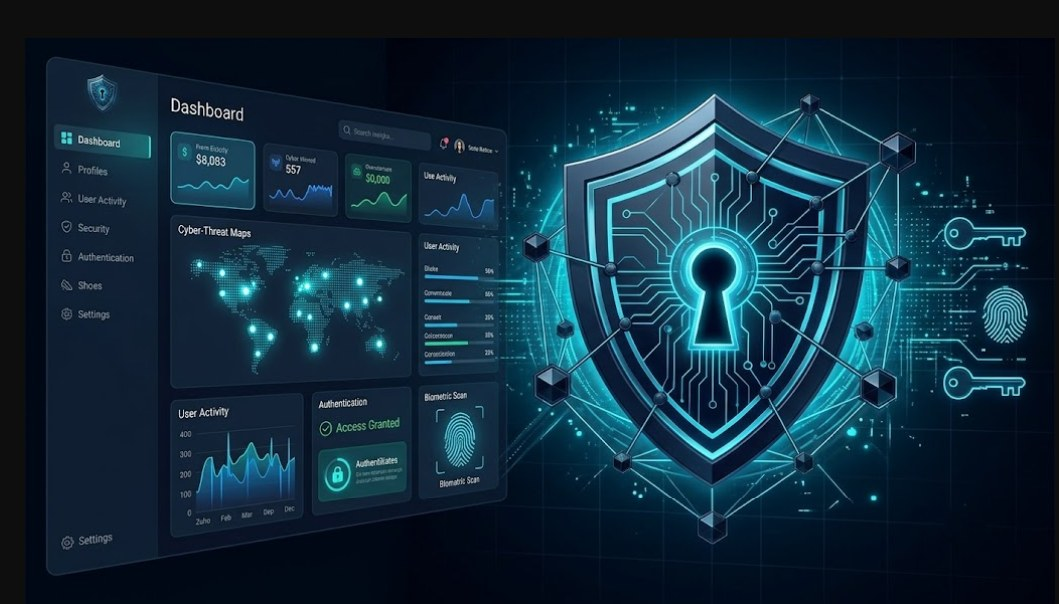
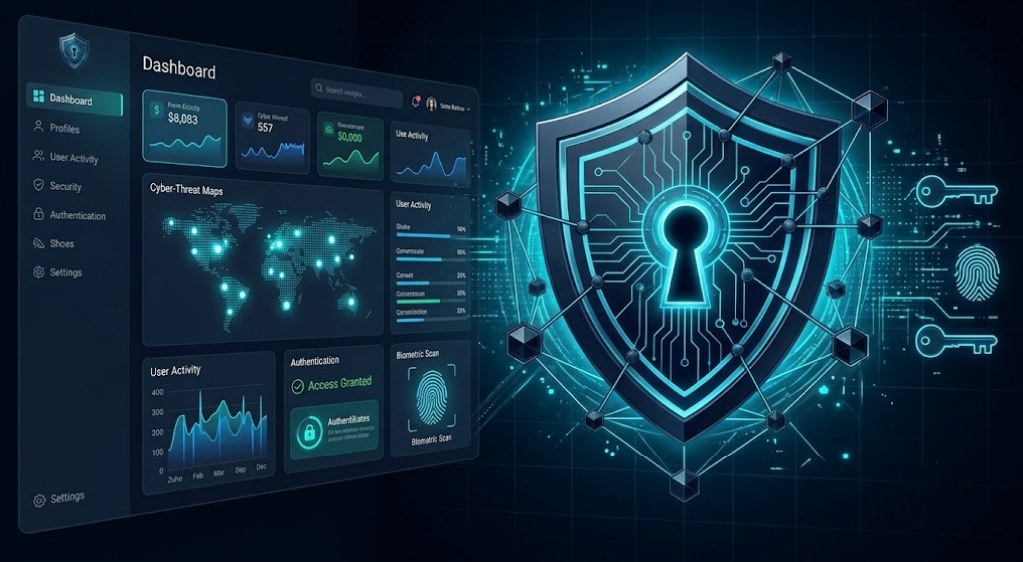
Refine admin sign-in: unified dark canvas, typed tagline
One continuous background across artwork and form (artwork fades into it,
no box), glass-style form card, trimmed artwork frame, and a two-line
tagline that types itself out (static with reduced motion).

diff --git a/services/iam-admin-console/src/polish.css b/services/iam-admin-console/src/polish.css
@@ -958,12 +958,29 @@ code {
   }
 }
 
-/* ---------- Split sign-in: artwork on the left, form on the right ---------- */
+/* ---------- Split sign-in: one continuous dark canvas, artwork fades into it ---------- */
 
 .login-split {
+  /* Always dark here: the artwork is dark, and a light form panel beside it
+     reads as two unrelated pages. The brand color still comes from the tenant. */
+  --iam-bg: #020a17;
+  --iam-surface: rgba(10, 20, 36, 0.62);
+  --iam-surface-alt: rgba(255, 255, 255, 0.05);
+  --iam-text: #e8eef6;
+  --iam-text-muted: #93a3b8;
+  --iam-border: rgba(140, 200, 230, 0.16);
+  --iam-primary-tint: rgba(99, 102, 241, 0.2);
+  --iam-error: #f87171;
+  --iam-error-bg: rgba(248, 113, 113, 0.12);
+
   display: grid;
-  grid-template-columns: minmax(0, 1.15fr) minmax(420px, 0.85fr);
+  grid-template-columns: minmax(0, 1.2fr) minmax(420px, 0.8fr);
   min-height: 100vh;
+  color: var(--iam-text);
+  background:
+    radial-gradient(ellipse 60% 60% at 30% 45%, rgba(20, 120, 150, 0.22) 0%, transparent 70%),
+    radial-gradient(ellipse 50% 50% at 88% 92%, rgba(60, 70, 200, 0.12) 0%, transparent 70%),
+    #020a17;
 }
 
 .login-split__art {
@@ -971,42 +988,97 @@ code {
   flex-direction: column;
   justify-content: center;
   align-items: center;
-  gap: 28px;
-  padding: 40px;
-  background: radial-gradient(circle at 70% 40%, #0b2a3a 0%, #070b14 60%, #04060b 100%);
+  padding: 32px 16px 32px 40px;
   overflow: hidden;
 }
 
+/* No box, border or shadow: the edges dissolve into the page background. */
 .login-split__art img {
   display: block;
   width: 100%;
-  max-width: 760px;
+  max-width: 820px;
   height: auto;
-  border-radius: 14px;
-  box-shadow: 0 20px 60px rgba(0, 200, 255, 0.12);
+  -webkit-mask-image: radial-gradient(ellipse 72% 72% at 50% 50%, #000 58%, transparent 100%);
+  mask-image: radial-gradient(ellipse 72% 72% at 50% 50%, #000 58%, transparent 100%);
+  animation: iam-fade-in 0.9s ease both;
 }
 
 .login-split__caption {
   width: 100%;
-  max-width: 760px;
-  color: #e6f7ff;
+  max-width: 820px;
+  padding-left: 28px;
+  margin-top: -6px;
 }
 
-.login-split__caption h2 {
-  margin: 0 0 8px;
-  font-size: 1.6rem;
-  letter-spacing: -0.01em;
+/* Typewriter: the invisible ghost holds the final size so nothing shifts while typing. */
+.tw {
+  display: block;
+  position: relative;
 }
 
-.login-split__caption p {
-  margin: 0;
-  color: #9fb7c4;
-  font-size: 0.98rem;
+.tw__ghost {
+  display: block;
+  visibility: hidden;
+}
+
+.tw__live {
+  position: absolute;
+  top: 0;
+  left: 0;
+  right: 0;
+}
+
+.tw--0 {
+  font-size: 2.1rem;
+  font-weight: 700;
+  letter-spacing: -0.02em;
+  line-height: 1.2;
+  color: #f2f8ff;
+}
+
+.tw--1 {
+  margin-top: 10px;
+  font-size: 1.05rem;
   line-height: 1.5;
+  color: var(--iam-text-muted);
+}
+
+.tw__caret {
+  display: inline-block;
+  width: 2px;
+  height: 1em;
+  margin-left: 3px;
+  vertical-align: -0.12em;
+  background: #5eead4;
+  animation: iam-blink 1s steps(1) infinite;
+}
+
+@keyframes iam-blink {
+  50% {
+    opacity: 0;
+  }
 }
 
 .login-split__panel {
   min-height: 100vh;
+}
+
+.login-split .login-form {
+  background: var(--iam-surface);
+  -webkit-backdrop-filter: blur(14px);
+  backdrop-filter: blur(14px);
+  box-shadow: 0 10px 40px rgba(0, 0, 0, 0.35);
+}
+
+.login-split .login-form__field input {
+  background: rgba(255, 255, 255, 0.05);
+}
+
+@media (prefers-reduced-motion: reduce) {
+  .tw__caret,
+  .login-split__art img {
+    animation: none;
+  }
 }
 
 @media (max-width: 960px) {

diff --git a/services/iam-admin-console/src/components/Typewriter.tsx b/services/iam-admin-console/src/components/Typewriter.tsx
@@ -1,0 +1,71 @@
+import { useEffect, useState } from "react";
+
+const reducedMotion = () =>
+  typeof window !== "undefined" && window.matchMedia?.("(prefers-reduced-motion: reduce)").matches;
+
+/**
+ * Types `lines` out one after another, like someone writing them: the first
+ * line completes before the second starts, and a caret follows whichever line
+ * is being typed (it keeps blinking on the last one). The full text is also
+ * rendered invisibly underneath, so the block never changes size or jumps
+ * while it types. With "reduce motion" on, the text simply appears.
+ */
+export function Typewriter({
+  lines,
+  charMs = 55,
+  pauseMs = 450,
+  startDelayMs = 600,
+}: {
+  lines: string[];
+  charMs?: number;
+  pauseMs?: number;
+  startDelayMs?: number;
+}) {
+  const [typed, setTyped] = useState<number[]>(() => (reducedMotion() ? lines.map((l) => l.length) : lines.map(() => 0)));
+  const [active, setActive] = useState(() => (reducedMotion() ? lines.length - 1 : 0));
+
+  useEffect(() => {
+    if (reducedMotion()) return;
+    setTyped(lines.map(() => 0));
+    setActive(0);
+
+    let line = 0;
+    let chars = 0;
+    let timer: number;
+
+    const tick = () => {
+      chars += 1;
+      setTyped((prev) => prev.map((n, i) => (i === line ? chars : n)));
+      if (chars < lines[line].length) {
+        timer = window.setTimeout(tick, charMs);
+      } else if (line < lines.length - 1) {
+        line += 1;
+        chars = 0;
+        timer = window.setTimeout(() => {
+          setActive(line);
+          tick();
+        }, pauseMs);
+      }
+    };
+
+    timer = window.setTimeout(tick, startDelayMs);
+    return () => window.clearTimeout(timer);
+    // eslint-disable-next-line react-hooks/exhaustive-deps
+  }, []);
+
+  return (
+    <>
+      {lines.map((text, i) => (
+        <span key={i} className={`tw tw--${i}`} aria-label={text}>
+          <span className="tw__ghost" aria-hidden="true">
+            {text}
+          </span>
+          <span className="tw__live" aria-hidden="true">
+            {text.slice(0, typed[i] ?? 0)}
+            {i === active && <span className="tw__caret" />}
+          </span>
+        </span>
+      ))}
+    </>
+  );
+}

diff --git a/services/iam-admin-console/src/pages/LoginPage.tsx b/services/iam-admin-console/src/pages/LoginPage.tsx
@@ -6,7 +6,7 @@ import { findTenantBySubdomain, resolveTenantSubdomain } from "@/lib/tenant";
 import { UpstreamError } from "@/lib/http";
 import { saveSession } from "@/lib/session";
 import { denialMessage } from "@/lib/errorCodes";
-import { ThemeToggle } from "@/components/ThemeToggle";
+import { Typewriter } from "@/components/Typewriter";
 import { detectRealIp } from "@/lib/clientIp";
 import { applyBranding, type Branding } from "@/lib/branding";
 
@@ -143,12 +143,10 @@ export function LoginPage() {
       <aside className="login-split__art" aria-hidden="true">
         <img src="/login-art.jpg" alt="" />
         <div className="login-split__caption">
-          <h2>Secure access for every app, user and device</h2>
-          <p>Single sign-on, adaptive multi-factor and continuous policy enforcement, managed from one console.</p>
+          <Typewriter lines={["One sign-in. Every app.", "Secure by policy, on every request."]} />
         </div>
       </aside>
       <section className="login-page login-split__panel">
-      <ThemeToggle className="login-page__theme-toggle" />
       <div className="login-page__brand">
         {brand?.branding?.logoUrl ? (
           <img src={brand.branding.logoUrl} alt={brand.name} className="login-page__brand-logo" />
